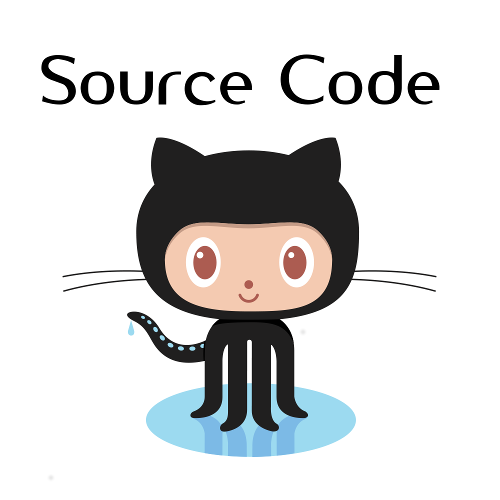
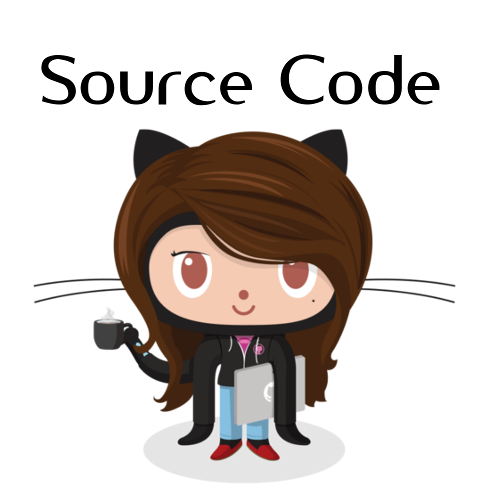
commented out baking with lizzie and changed github image

Changed region(s): [[0.06, 0.24, 0.9, 0.99]]

diff --git a/games/index.html b/games/index.html
@@ -139,11 +139,11 @@
 	</div>
       </div>      
 
-      <div class="box">
-        <div class="boxInner">
-          <a href="baking-with-lizzie/"><img src="images/baking-with-lizzie.png" alt="Baking with Lizzie" /></a>
-        </div>
-      </div>
+      <!-- <div class="box"> -->
+      <!--   <div class="boxInner"> -->
+      <!--     <a href="baking-with-lizzie/"><img src="images/baking-with-lizzie.png" alt="Baking with Lizzie" /></a> -->
+      <!--   </div> -->
+      <!-- </div> -->
       
        <div class="box">
 	<div class="boxInner">
